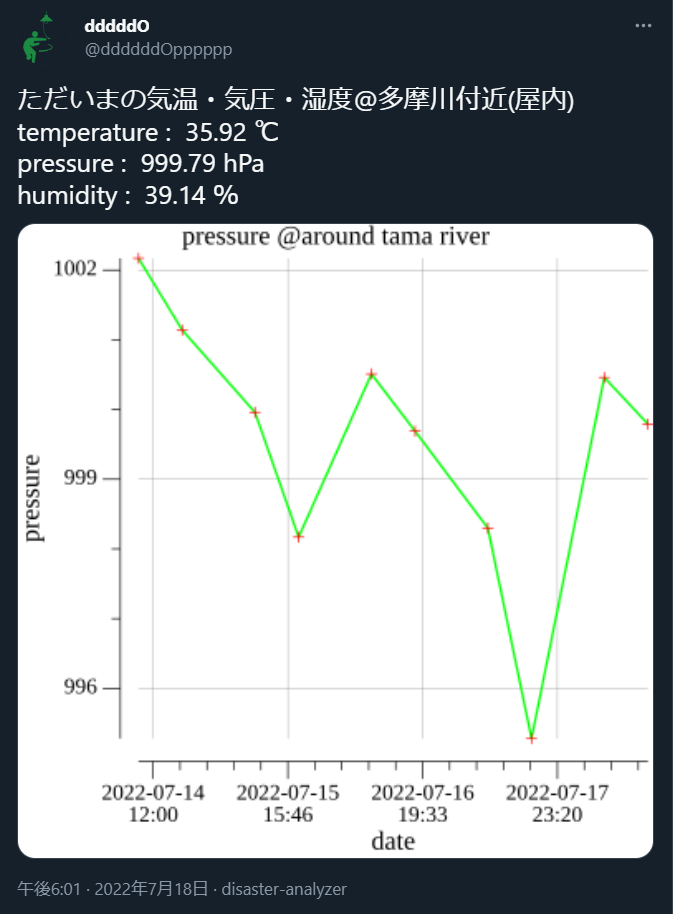
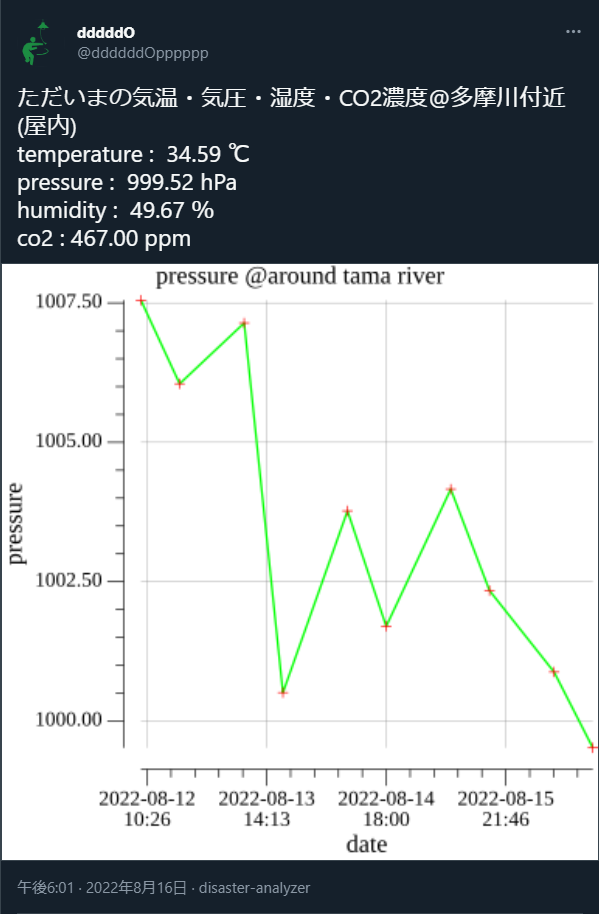
updage dagu

diff --git a/README.md b/README.md
@@ -19,13 +19,14 @@
 ### 実行基盤
 - cronと[**Dagu**](https://github.com/yohamta/dagu)を利用。
 - 各実行コマンドの依存を[YAMLファイル](dag.yaml)に記載しDaguを実行する。
-- Daguにはserverサブコマンドがあり、依存関係を視覚的に確認もできる。
+- Daguにはserverサブコマンドがあり、依存関係も視覚的に確認できる。
   - ![](env-bot/doc/dagu.png)
 
 ### Tweet
 ![](env-bot/doc/tweet_1.png)
 ![](env-bot/doc/tweet_2.png)
 ![](env-bot/doc/tweet_3.png)
+![](env-bot/doc/tweet_4.png)
 
 # 扱うsensor
 ![](image/sensor.jpg)
